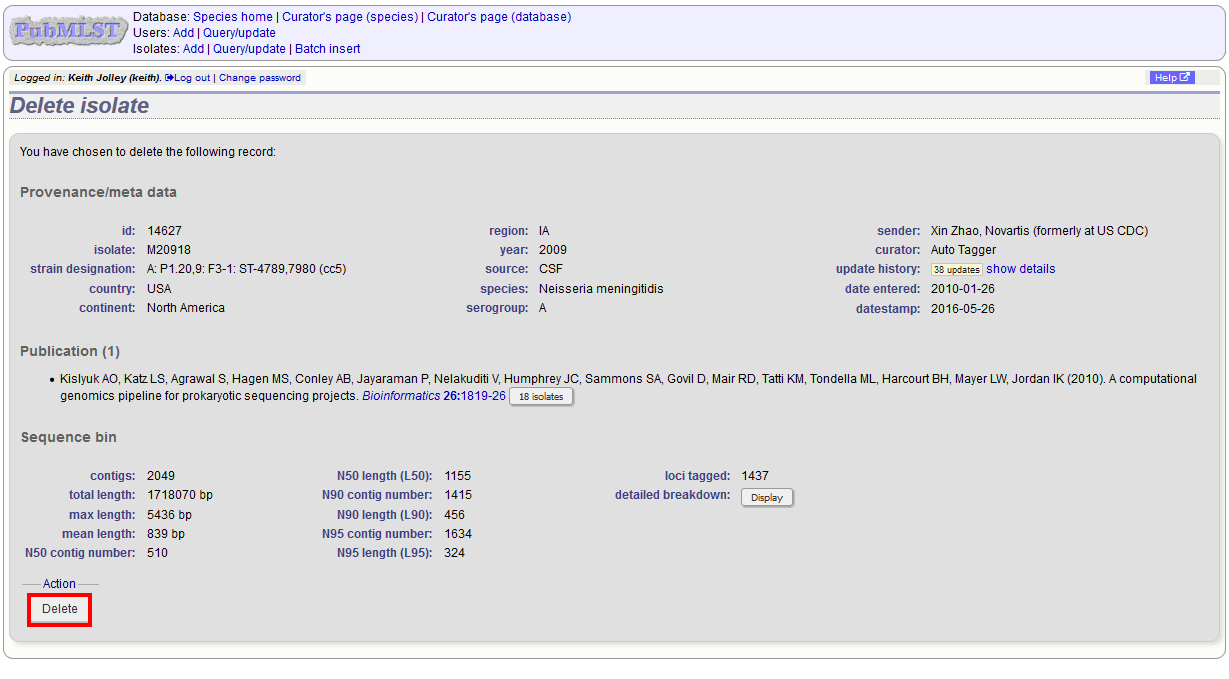
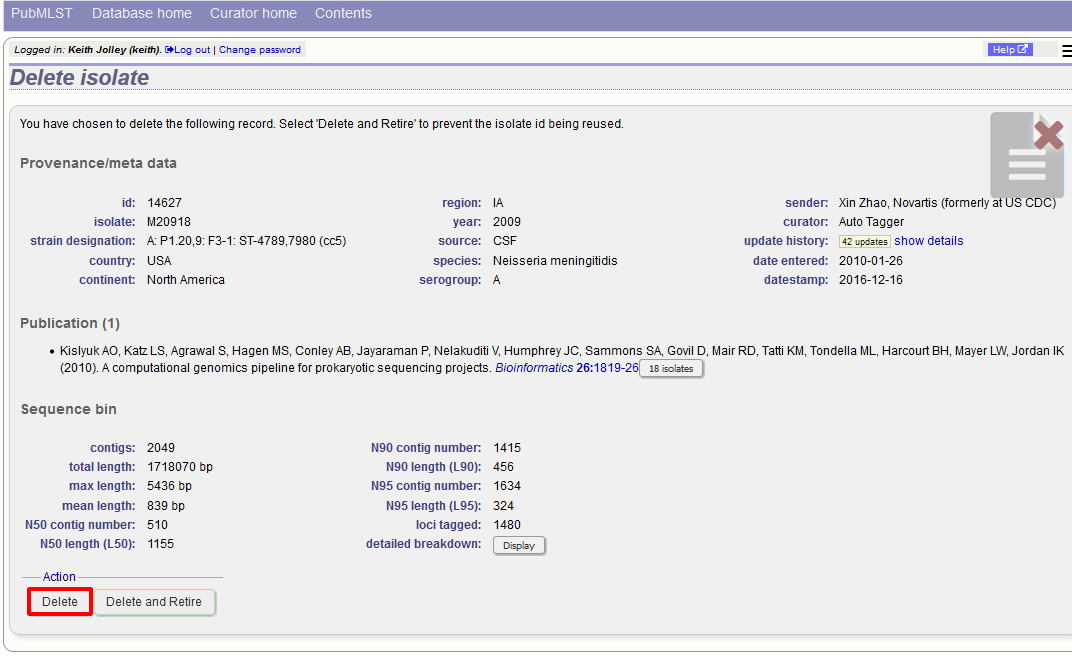
Retiring isolate identifiers. Closes #12.

Changed region(s): [[0.0, 0.0, 1.0, 0.9895], [0.2463, 0.6597, 0.6465, 0.8396], [0.3694, 0.2999, 0.5849, 0.4798]]

diff --git a/curator_guide.rst b/curator_guide.rst
@@ -540,6 +540,8 @@ the data and resubmit if this happens.
 
 .. image:: /images/curation/add_isolate7.png
 
+.. _update_delete_isolate:
+
 ********************************************
 Updating and deleting single isolate records
 ********************************************
@@ -665,6 +667,31 @@ You will have a final chance to change your mind:
 .. image:: /images/curation/batch_delete_isolate3.png
 
 Click 'Confirm deletion!'.
+
+****************************
+Retiring isolate identifiers
+****************************
+Sometimes there is a requirement to prevent the automated assignment of a 
+particular isolate identifier number - an isolate with that identifier may 
+have been commonly used and has since been removed. Reassignment of the 
+identifier to a new isolate record may lead to confusion, so in this instance,
+it would be better to prevent this.
+
+You can retire an isolate identifier by clicking the 'Add' retired isolates
+link on the isolates database curators' page.
+
+.. image:: /images/curation/retire_isolate1.png
+
+Enter the isolate id to retire and click 'Submit'.
+
+.. image:: /images/curation/retire_isolate2.png
+
+You cannot retire an isolate identifier that already exists, so you must delete 
+it before retiring it.  Once an identifier is retired, you will not be able to 
+create a new isolate record using that identifier.  
+
+You can also retire an isolate identifier when you 
+:ref:`delete an isolate record<update_delete_isolate>`. 
 
 .. index::
    single: isolate aliases
